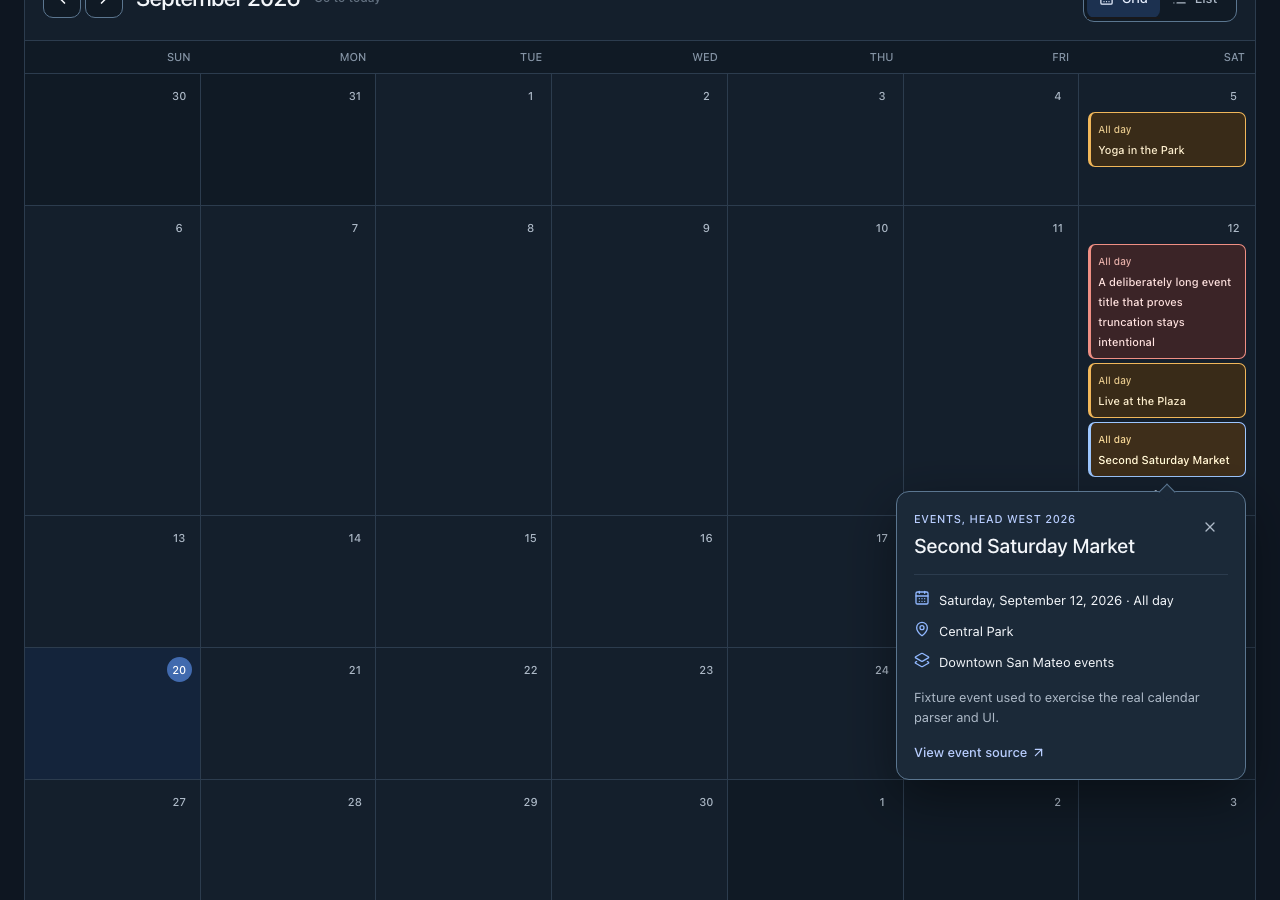
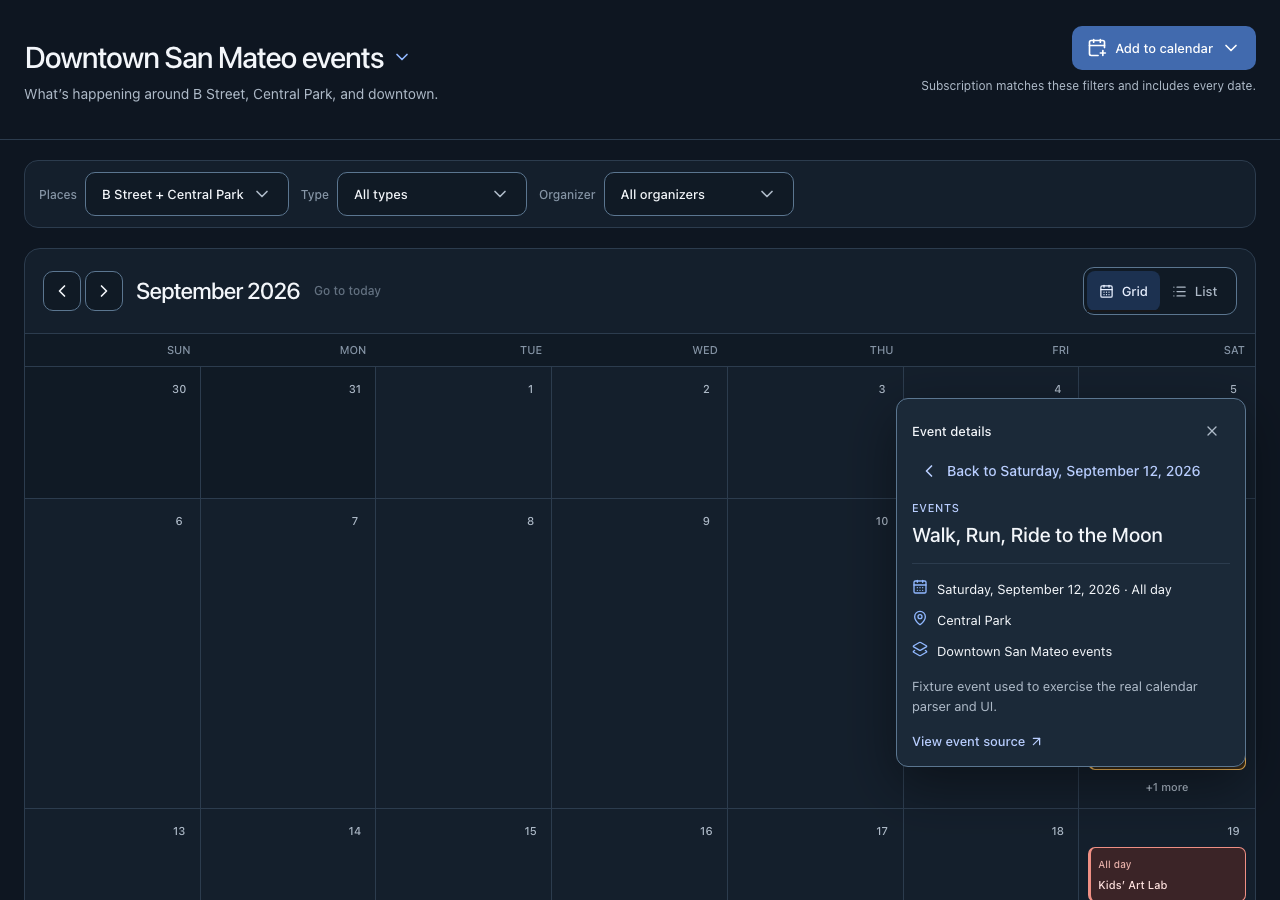
Complete browser visual coverage matrix

diff --git a/frontend/e2e/calendar-explorer.visual.spec.ts b/frontend/e2e/calendar-explorer.visual.spec.ts
@@ -37,6 +37,17 @@ async function outline(locator: Locator) {
   })
 }
 
+async function normalizePageForPointerScreenshot(page: Page) {
+  await page.mouse.move(0, 0)
+  await page.evaluate(() => {
+    window.scrollTo(0, 0)
+    for (const element of document.querySelectorAll<HTMLElement>(
+      '[data-testid="filter-options-scroll"]'
+    ))
+      element.scrollTop = 0
+  })
+}
+
 async function expectNarrowFilterGeometry(
   page: Page,
   trigger: Locator,
@@ -58,6 +69,7 @@ async function expectNarrowFilterGeometry(
     popover.boundingBox(),
     page.evaluate(() => ({
       width: window.innerWidth,
+      height: window.innerHeight,
       documentWidth: document.documentElement.scrollWidth
     }))
   ])
@@ -66,7 +78,11 @@ async function expectNarrowFilterGeometry(
   expect(Math.abs(popoverBox!.x - triggerBox!.x)).toBeLessThanOrEqual(1)
   expect(Math.abs(popoverBox!.width - triggerBox!.width)).toBeLessThanOrEqual(1)
   expect(popoverBox!.x).toBeGreaterThanOrEqual(0)
+  expect(popoverBox!.y).toBeGreaterThanOrEqual(0)
   expect(popoverBox!.x + popoverBox!.width).toBeLessThanOrEqual(viewport.width)
+  expect(popoverBox!.y + popoverBox!.height).toBeLessThanOrEqual(
+    viewport.height
+  )
   expect(viewport.documentWidth).toBe(viewport.width)
 
   const title = popover.locator('[data-part="title"]')
@@ -78,12 +94,30 @@ async function expectNarrowFilterGeometry(
   expect(titleBox).not.toBeNull()
   expect(closeBox).not.toBeNull()
   expect(titleBox!.x + titleBox!.width).toBeLessThanOrEqual(closeBox!.x)
-  expect(closeBox!.width).toBeGreaterThanOrEqual(44)
-  expect(closeBox!.height).toBeGreaterThanOrEqual(44)
+  expect(titleBox!.y).toBeGreaterThanOrEqual(popoverBox!.y)
+  expect(closeBox!.y).toBeGreaterThanOrEqual(popoverBox!.y)
+  expect(closeBox!.y + closeBox!.height).toBeLessThanOrEqual(
+    popoverBox!.y + popoverBox!.height
+  )
+  expect(closeBox!.width).toBeGreaterThanOrEqual(43.5)
+  expect(closeBox!.height).toBeGreaterThanOrEqual(43.5)
 
   const scroll = popover.getByTestId('filter-options-scroll')
   const scrollBox = await scroll.boundingBox()
   expect(scrollBox).not.toBeNull()
+  expect(scrollBox!.y).toBeGreaterThanOrEqual(
+    Math.max(titleBox!.y + titleBox!.height, closeBox!.y + closeBox!.height)
+  )
+  expect(scrollBox!.y + scrollBox!.height).toBeLessThanOrEqual(
+    popoverBox!.y + popoverBox!.height
+  )
+  const search = popover.getByRole('textbox')
+  if ((await search.count()) > 0) {
+    const searchBox = await search.boundingBox()
+    expect(searchBox).not.toBeNull()
+    expect(searchBox!.y).toBeGreaterThanOrEqual(titleBox!.y + titleBox!.height)
+    expect(searchBox!.y + searchBox!.height).toBeLessThanOrEqual(scrollBox!.y)
+  }
   const rows = await popover.getByTestId('filter-checkbox-row').all()
   expect(rows.length).toBeGreaterThan(0)
   for (const row of rows) {
@@ -97,6 +131,14 @@ async function expectNarrowFilterGeometry(
     expect(labelBox).not.toBeNull()
     expect(rowBox!.height).toBeGreaterThanOrEqual(44)
     expect(controlBox!.x + controlBox!.width).toBeLessThanOrEqual(labelBox!.x)
+    expect(controlBox!.y).toBeGreaterThanOrEqual(rowBox!.y)
+    expect(controlBox!.y + controlBox!.height).toBeLessThanOrEqual(
+      rowBox!.y + rowBox!.height
+    )
+    expect(labelBox!.y).toBeGreaterThanOrEqual(rowBox!.y)
+    expect(labelBox!.y + labelBox!.height).toBeLessThanOrEqual(
+      rowBox!.y + rowBox!.height
+    )
     expect(labelBox!.x + labelBox!.width).toBeLessThanOrEqual(
       scrollBox!.x + scrollBox!.width
     )
@@ -162,6 +204,33 @@ test.describe('filter popover visual contract', () => {
       const places = await visibleFilterPopover(page, 'places')
       await expectNarrowFilterGeometry(page, placesTrigger, places)
       await expect(page).toHaveScreenshot(`places-${viewport.width}.png`)
+      await places
+        .getByRole('textbox', { name: 'Search places' })
+        .fill('sutter')
+      await expect(
+        places.getByRole('checkbox', {
+          name: 'Sutter Medical Center San Mateo'
+        })
+      ).toBeVisible()
+      await normalizePageForPointerScreenshot(page)
+      await expect(page).toHaveScreenshot(`places-search-${viewport.width}.png`)
+      await page.keyboard.press('Escape')
+
+      await placesTrigger.click()
+      const partialPlaces = await visibleFilterPopover(page, 'places')
+      await partialPlaces
+        .getByTestId('filter-checkbox-row')
+        .filter({ hasText: 'North B Street' })
+        .click()
+      expect(
+        await partialPlaces
+          .getByRole('checkbox', { name: 'B Street', exact: true })
+          .evaluate(element => (element as HTMLInputElement).indeterminate)
+      ).toBe(true)
+      await normalizePageForPointerScreenshot(page)
+      await expect(page).toHaveScreenshot(
+        `places-partial-${viewport.width}.png`
+      )
       await page.keyboard.press('Escape')
 
       const typeTrigger = page.getByRole('button', { name: 'Type: All types' })
@@ -172,6 +241,7 @@ test.describe('filter popover visual contract', () => {
         .getByTestId('filter-checkbox-row')
         .filter({ hasText: 'Events' })
         .click()
+      await normalizePageForPointerScreenshot(page)
       await expect(page).toHaveScreenshot(`type-selected-${viewport.width}.png`)
       await page.keyboard.press('Escape')
 
@@ -181,14 +251,19 @@ test.describe('filter popover visual contract', () => {
       await organizerTrigger.click()
       const organizer = await visibleFilterPopover(page, 'organizer')
       await expectNarrowFilterGeometry(page, organizerTrigger, organizer)
+      await normalizePageForPointerScreenshot(page)
+      await expect(page).toHaveScreenshot(`organizer-${viewport.width}.png`)
       await organizer
         .getByRole('textbox', { name: 'Search organizers' })
-        .fill('city')
+        .fill('community')
       await expect(
-        organizer.getByRole('checkbox', { name: 'City of San Mateo' })
+        organizer.getByRole('checkbox', {
+          name: 'Bay Area Community Health Advisory Council'
+        })
       ).toBeVisible()
+      await normalizePageForPointerScreenshot(page)
       await expect(page).toHaveScreenshot(
-        `organizer-search-${viewport.width}.png`
+        `organizer-long-${viewport.width}.png`
       )
     })
   }
@@ -204,11 +279,13 @@ test.describe('filter popover visual contract', () => {
     await calendarMenu.click()
     await expect(page).toHaveScreenshot('desktop-calendar-menu.png')
     await page.keyboard.press('Escape')
+    await expect(calendarMenu).toBeFocused()
 
     const addMenu = page.getByRole('button', { name: 'Add to calendar' })
     await addMenu.click()
     await expect(page).toHaveScreenshot('desktop-add-menu.png')
     await page.keyboard.press('Escape')
+    await expect(addMenu).toBeFocused()
 
     const placesTrigger = page.getByRole('button', {
       name: 'Places: B Street + Central Park'
@@ -231,8 +308,17 @@ test.describe('filter popover visual contract', () => {
 
     await page.getByRole('button', { name: '+1 more' }).click()
     await expect(page).toHaveScreenshot('desktop-overflow.png')
-    await page.getByRole('button', { name: /Second Saturday Market/ }).click()
+    await page
+      .getByRole('button', { name: /Walk, Run, Ride to the Moon/ })
+      .click()
     await expect(page).toHaveScreenshot('desktop-overflow-detail.png')
+    await page.getByRole('button', { name: /Back to/ }).click()
+    await page.keyboard.press('Escape')
+
+    await page.getByRole('tab', { name: 'List' }).click()
+    await expect(page).toHaveScreenshot('desktop-list.png')
+    await page.getByRole('button', { name: /Yoga in the Park/ }).click()
+    await expect(page).toHaveScreenshot('desktop-list-detail.png')
   })
 
   test('covers narrow List event disclosure', async ({ page }) => {
@@ -240,6 +326,36 @@ test.describe('filter popover visual contract', () => {
     await page.getByRole('tab', { name: 'List' }).click()
     await page.getByRole('button', { name: /Yoga in the Park/ }).click()
     await expect(page).toHaveScreenshot('mobile-list-detail-390.png')
+  })
+
+  test('covers narrow menus and compact Grid at 320px', async ({ page }) => {
+    await openFixture(page, { width: 320, height: 1000 })
+    const calendarMenu = page.getByRole('button', {
+      name: 'Downtown San Mateo events'
+    })
+    await calendarMenu.click()
+    await expect(page).toHaveScreenshot('mobile-calendar-menu-320.png')
+    await page.keyboard.press('Escape')
+    await expect(calendarMenu).toBeFocused()
+
+    const addMenu = page.getByRole('button', { name: 'Add to calendar' })
+    await addMenu.click()
+    await expect(page).toHaveScreenshot('mobile-add-menu-320.png')
+    await page.keyboard.press('Escape')
+    await expect(addMenu).toBeFocused()
+
+    await page.getByRole('tab', { name: 'Grid' }).click()
+    await expect(page).toHaveScreenshot('mobile-compact-grid-320.png')
+    await page
+      .getByRole('button', {
+        name: /Saturday, September 12, 2026, 4 events\. Show in List\./
+      })
+      .click()
+    await expect(page.getByRole('tab', { name: 'List' })).toHaveAttribute(
+      'aria-selected',
+      'true'
+    )
+    await expect(page).toHaveScreenshot('mobile-grid-to-list-320.png')
   })
 
   test('@deployed verifies the live 320px Type geometry', async ({ page }) => {
@@ -254,6 +370,27 @@ test.describe('filter popover visual contract', () => {
     const allTypesRow = popover
       .getByTestId('filter-checkbox-row')
       .filter({ hasText: 'All types' })
+    const pointerControl = allTypesRow.locator('[data-part="control"]')
     expect((await outline(allTypesRow)).style).toBe('none')
+    expect((await outline(pointerControl)).style).toBe('none')
+    await page.keyboard.press('Escape')
+    await expect(popover).toBeHidden()
+    await expect(trigger).toBeFocused()
+
+    await trigger.press('Enter')
+    const keyboardPopover = await visibleFilterPopover(page, 'type')
+    const keyboardRow = keyboardPopover
+      .getByTestId('filter-checkbox-row')
+      .filter({ hasText: 'All types' })
+    const keyboardControl = keyboardRow.locator('[data-part="control"]')
+    expect((await outline(keyboardRow)).style).toBe('none')
+    const keyboardOutline = await outline(keyboardControl)
+    expect(keyboardOutline.style).not.toBe('none')
+    expect(keyboardOutline.width).toBeGreaterThanOrEqual(2)
+    await keyboardPopover
+      .getByRole('button', { name: 'Close type filters' })
+      .click()
+    await expect(keyboardPopover).toBeHidden()
+    await expect(trigger).toBeFocused()
   })
 })

diff --git a/frontend/README.md b/frontend/README.md
@@ -118,6 +118,17 @@ alignment, viewport containment, 44 px targets, control/label overlap, pointer
 versus keyboard focus, dismissal, and focus return. Update snapshots only for
 an intentional reviewed change with `npm run test:browser:update`.
 
+Install the local browser binaries once with:
+
+```sh
+npx playwright install chromium webkit
+```
+
+`npm run test:browser:update` regenerates the current platform's snapshots.
+`npm run test:browser:update:linux` uses the pinned official Playwright Docker
+image to regenerate the Linux baselines used by CI without replacing the
+host's `node_modules`. CI runs the browser job inside that same pinned image.
+
 The checked-in [review screenshots](../docs/screenshots/calendar-explorer/README.md)
 show the final implementation at desktop, 390 px, and 320 px, including busy
 overflow, event detail, and long filter-menu states. They are browser captures,
